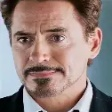
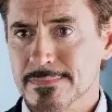
made MooileFaceNet model

diff --git a/ML/src/model.py b/ML/src/model.py
@@ -1,0 +1,147 @@
+import torch
+import torch.nn as nn
+import torch.nn.functional as F
+
+class ConvBlock(nn.Module):
+    def __init__(self, in_channels,out_channels,kernel_size,stride, padding , groups =1):
+        super(ConvBlock,self).__init__()
+        self.conv=nn.Conv2d(
+            in_channels=in_channels,
+            out_channels=out_channels,
+            kernel_size=kernel_size,
+            stride=stride,
+            padding=padding,
+            groups=groups,
+            bias=False
+        )
+        self.bn=nn.BatchNorm2d(out_channels)
+        self.prelu = nn.PReLU(out_channels)
+
+
+    def forward(self,x):
+        x=self.conv(x)
+        x=self.bn(x)
+        x=self.prelu(x)
+        return x 
+class DepthWiseSeperableBlock(nn.Module):
+    def __init__(self,in_channels,out_channels,stride):
+        super(DepthWiseSeperableBlock,self).__init__()
+        self.depthwise=ConvBlock(
+            in_channels=in_channels,
+            out_channels=in_channels,
+            kernel_size=3,
+            stride=stride,
+            padding=1,
+            groups=in_channels
+        )
+        self.pointwise=ConvBlock(
+            in_channels=in_channels,
+            out_channels=out_channels,
+            kernel_size=1,
+            stride=1,
+            padding=0
+        )
+    def forward(self,x):
+        x=self.depthwise(x)
+        x=self.pointwise(x)
+        return x
+class MobileFaceNet(nn.Module):
+    def __init__(self,embedding_size=128,num_classes=None):
+        super(MobileFaceNet,self).__init__()
+        self.embedding_size=embedding_size
+        self.num_classes=num_classes
+
+        self.conv1=ConvBlock(
+            in_channels=3,
+            out_channels=64,
+            kernel_size=3,
+            stride=2,
+            padding=1
+        )
+        self.dw1=DepthWiseSeperableBlock(64,64,stride=1)
+        self.conv2=DepthWiseSeperableBlock(64,128,stride=2)
+        self.conv3=DepthWiseSeperableBlock(128,128,stride=1)
+        self.conv4=DepthWiseSeperableBlock(128,256,stride=2)
+        self.conv5=DepthWiseSeperableBlock(256,256,stride=1)
+        self.conv6=DepthWiseSeperableBlock(256,512,stride=2)
+
+        self.conv7=nn.Conv2d(
+            in_channels=512,
+            out_channels=embedding_size,
+            kernel_size=7,
+            stride=1,
+            padding=0,
+            bias=False
+        )
+
+    def forward(self,x,return_embedding=True):
+        batch_size=x.size(0)
+        x=self.conv1(x)
+        x=self.dw1(x)
+        x=self.conv2(x)
+        x=self.conv3(x)
+        x=self.conv4(x)
+        x=self.conv5(x)
+        x=self.conv6(x)
+        x=self.conv7(x)
+
+        x=self.bn_embedding(x)
+        x=x.view(batch_size,-1)
+
+        embeddings=F.normalize(x,p=2,dim=1)
+
+        if return_embedding or self.classifier is None:
+            return embeddings
+        else:
+            logits=self.classifier(embeddings)
+            return logits
+    def get_model_size(self):
+        
+        total_params = sum(p.numel() for p in self.parameters())
+        trainable_params = sum(p.numel() for p in self.parameters() if p.requires_grad)
+        
+        model_size_mb = (total_params * 4) / (1024 * 1024)
+        
+        print(f"   Model Statistics:")
+        print(f"   Total parameters: {total_params:,}")
+        print(f"   Trainable parameters: {trainable_params:,}")
+        print(f"   Estimated size: {model_size_mb:.2f} MB")
+        
+        return total_params, trainable_params, model_size_mb
+def create_modelFaceNet(embedding_size=128,num_classes=None):
+    model =MobileFaceNet(embedding_size=embedding_size,num_classes=num_classes)
+    model.get_model_size()
+    return model
+def test_model_architecture():
+
+    print("\n Testing Model Architecture...")
+        
+    # Create model
+    model = create_modelFaceNet(embedding_size=128, num_classes=10)
+        
+    # Create dummy input (batch of 4 face images)
+    dummy_input = torch.randn(4, 3, 112, 112)
+    print(f"   Input shape: {dummy_input.shape}")
+        
+    # Test forward pass
+    with torch.no_grad():
+        # Test embedding output
+        embeddings = model(dummy_input, return_embedding=True)
+        print(f"   Embedding output shape: {embeddings.shape}")
+        print(f"   Embedding range: {embeddings.min():.3f} to {embeddings.max():.3f}")
+        print(f"   Embedding norms: {torch.norm(embeddings, dim=1)}")  # Should be ~1.0
+            
+        # Test classification output (if classifier exists)
+        if model.classifier is not None:
+            logits = model(dummy_input, return_embedding=False)
+            print(f"   Classification output shape: {logits.shape}")
+            print(f"   Logits range: {logits.min():.3f} to {logits.max():.3f}")
+        
+    print(" Model architecture test passed!")
+    return model
+    
+if __name__=="__main__":
+    model=test_model_architecture()
+
+
+

diff --git a/ML/src/preProcess.py b/ML/src/preProcess.py
@@ -36,14 +36,14 @@ with mp_face_detection.FaceDetection(model_selection=0,min_detection_confidence=
                     w_box=int(bboxC.width*w)
                     h_box=int(bboxC.height*h)
 
-                    margin = 0.2  
-                    x1 = max(0, x - int(w_box * margin))
-                    y1 = max(0, y - int(h_box * margin))
-                    x2 = min(w, x + w_box + int(w_box * margin))
-                    y2 = min(h, y + h_box + int(h_box * margin))
+                    # margin = 0.2  
+                    # x1 = max(0, x - int(w_box * margin))
+                    # y1 = max(0, y - int(h_box * margin))
+                    # x2 = min(w, x + w_box + int(w_box * margin))
+                    # y2 = min(h, y + h_box + int(h_box * margin))
 
                     # Crop with margin
-                    face = image[y1:y2, x1:x2]
+                    face = image[y:y+h_box, x:x+w_box]
                     if face.size == 0:
                         print(f"[WARNING] Empty face crop for {img_path}, detection {i}")
                         continue

diff --git a/ML/src/face_dataset_loader.py b/ML/src/face_dataset_loader.py
@@ -1,0 +1,31 @@
+import torch
+from torchvision import transforms , datasets
+from torch.utils.data import DataLoader
+import os
+
+transform=transforms.Compose([
+    transforms.ToTensor(),
+    transforms.Normalize([0.5,0.5,0.5],
+                         [0.5,0.5,0.5])
+])
+data_folder="ML\\data\\processed_faces"
+if not os.path.exists(data_folder):
+    print(f" ERROR: Folder '{data_folder}' not found!")
+    print("Please make sure you've run the face detection script first.")
+    exit()
+dataset=datasets.ImageFolder(
+    root=data_folder,
+    transform=transform
+)
+print(f"\n Dataset loaded from '{data_folder}'")
+
+train_loader=DataLoader(
+    dataset=dataset,
+    batch_size=32,
+    shuffle=True,
+    num_workers=0,
+    pin_memory=True
+)
+class_name=dataset.classes
+num_class=len(class_name)
+print(f"\nClass names (first 2): {class_name[:2]}")
